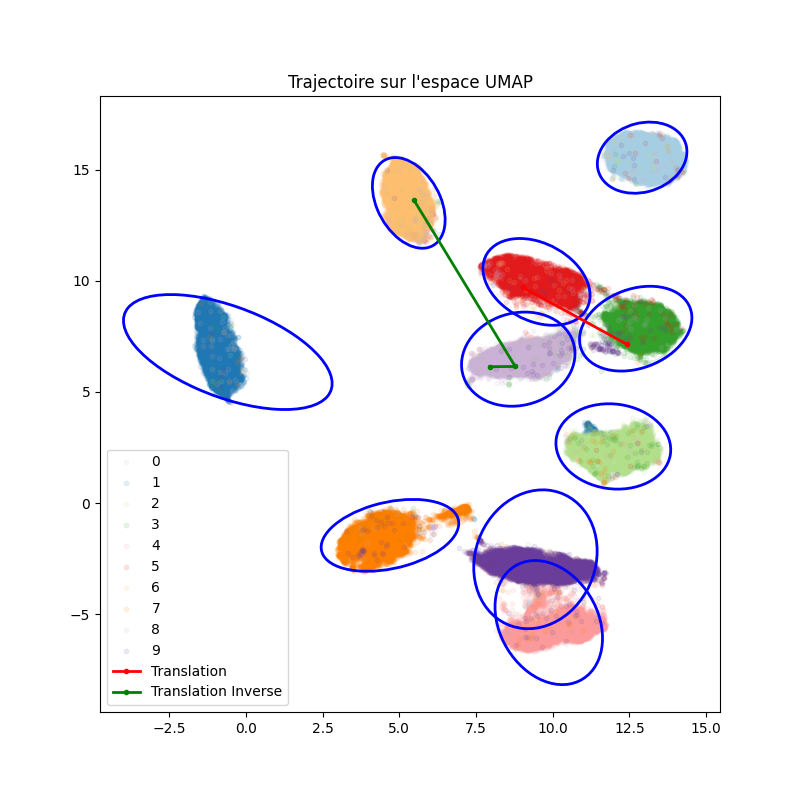
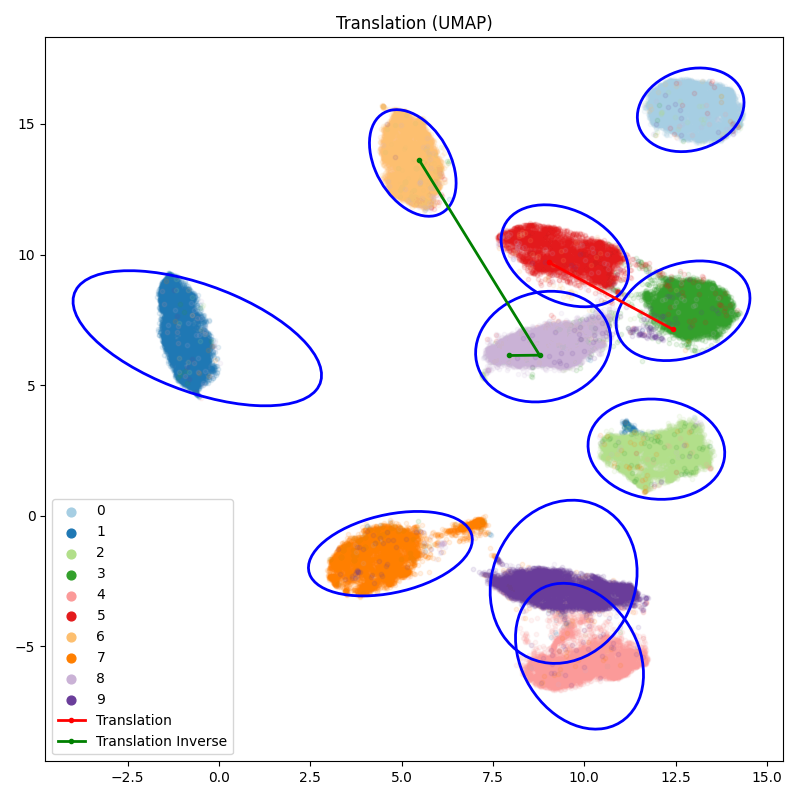
Code updates

diff --git a/Sources/Code/Test/EllipseTranslation.py b/Sources/Code/Test/EllipseTranslation.py
@@ -74,7 +74,7 @@ length += np.random.rand()
 translation = np.random.rand(z_test.shape[-1])
 translation = length * np.linalg.norm(translation)
 
-threshold = np.sqrt(chi2.ppf(0.75, df=2)) # 80% des points devraient être dans l'ellipse de leur classe
+threshold = np.sqrt(chi2.ppf(0.75, df=2)) # 0.75% des points devraient être dans l'ellipse de leur classe
 
 z_src = z_test[digit: digit + 1]
 x_src = autoencoder.decoder.predict(z_src)
@@ -133,8 +133,8 @@ else:
 
         for digit_class in range(10):
             idx = np.where(y_train == digit_class)
-            ax.scatter(z_umap_train[idx, 0], z_umap_train[idx, 1],
-                    s=10, color=colors[digit_class], alpha=0.1, label=f"{digit_class}")
+            ax.scatter(z_umap_train[idx, 0], z_umap_train[idx, 1], s=10, color=colors[digit_class], alpha=0.1)
+            ax.scatter([], [], s=40, color=colors[digit_class], alpha=1, label=f"{digit_class}")
 
         ax.plot(umap_path[:, 0], umap_path[:, 1], color='red', lw=2, marker='o', markersize=3, label="Translation")
         ax.plot(umap_inv_path[:, 0], umap_inv_path[:, 1], color='green', lw=2, marker='o', markersize=3, label="Translation Inverse")
@@ -152,11 +152,12 @@ else:
             cov = np.linalg.inv(inv_cov)
             plot_cov_ellipse(mean, cov, ax, nstd=threshold, edgecolor='blue', fc='None', lw=2)
 
-        ax.set_title("Trajectoire sur l'espace UMAP")
+        ax.set_title("Translation (UMAP)")
         ax.legend()
+        plt.tight_layout()
         plt.savefig(cache.RESULTS_FOLDER / f"mnist-ellipse-translation-umap-{digit}.png")
         
-        fig, axs = plt.subplots(1, 4, figsize=(20, 5))
+        fig, axs = plt.subplots(1, 4, figsize=(12, 3))
         
         axs[0].imshow(x_test[digit].squeeze(), cmap="gray")
         axs[0].set_title("Source")
@@ -167,11 +168,11 @@ else:
         axs[1].axis("off")
         
         axs[2].imshow(x_dst.squeeze(), cmap="gray")
-        axs[2].set_title(f"Translation\n({iter_dst} it.)")
+        axs[2].set_title(f"Translation ({iter_dst} it.)")
         axs[2].axis("off")
         
         axs[3].imshow(x_invsrc.squeeze(), cmap="gray")
-        axs[3].set_title(f"Translation Inverse\n({iter_inv} it.)")
+        axs[3].set_title(f"Translation Inverse ({iter_inv} it.)")
         axs[3].axis("off")
         
         plt.tight_layout()

diff --git a/Sources/Code/Other/RandomSamples.py b/Sources/Code/Other/RandomSamples.py
@@ -47,6 +47,28 @@ for i in range(100):
 plt.tight_layout()
 plt.savefig(cache.RESULTS_FOLDER / "RandomSamples" / "mnist-random-samples-uniform.png")
 
+# Prior
+
+print("Prior")
+
+z_min = np.min(z_train, axis=0)
+z_max = np.max(z_train, axis=0)
+
+num_samples = 10000
+sampled_latents = np.random.normal(size=(num_samples, z_train.shape[1]))
+
+decoded_images = autoencoder.decoder.predict(sampled_latents)
+
+idx = np.random.choice(len(decoded_images), 100, replace=False)
+
+plt.figure(figsize=(20, 20))
+for i in range(100):
+    ax = plt.subplot(10, 10, i + 1)
+    plt.imshow(decoded_images[idx[i]].squeeze(), cmap="gray")
+    ax.axis("off")
+plt.tight_layout()
+plt.savefig(cache.RESULTS_FOLDER / "RandomSamples" / "mnist-random-samples-prior.png")
+
 # VAE Distribution
 
 print("Distribution du VAE")
